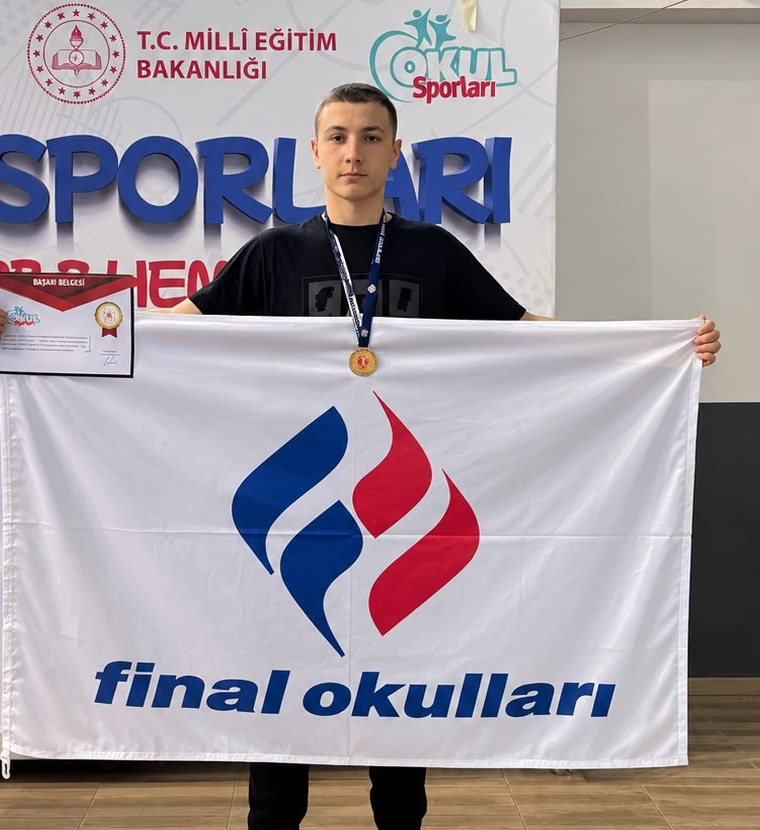
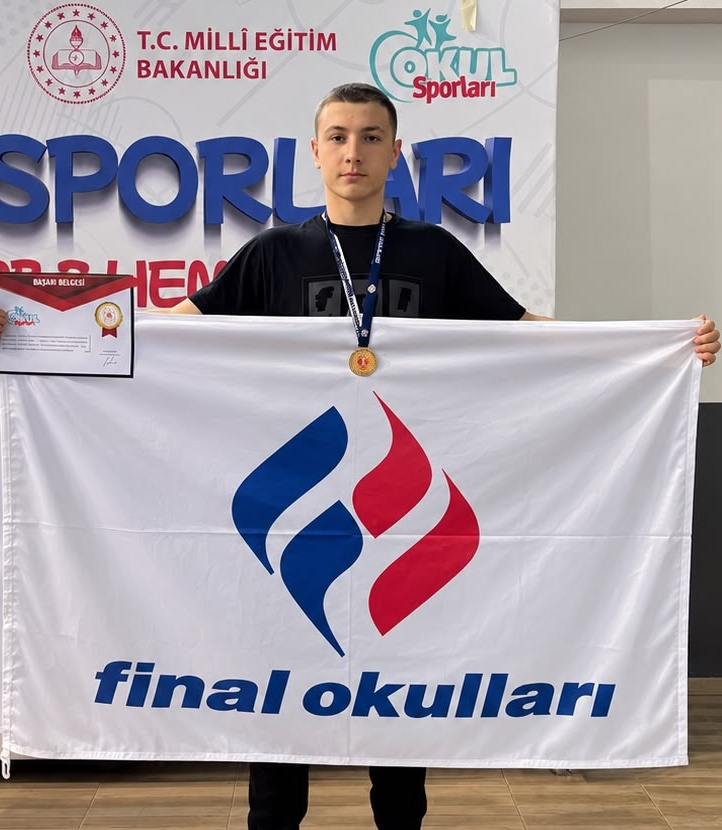
Bora yüzme post C: çerçeve bayrağın sağ kenarında bitiyor (daraltıldı)

diff --git a/marka/yakacik-final/bora-yuzme-basari-2026/kaynak/C-lacivert-cerceve.html b/marka/yakacik-final/bora-yuzme-basari-2026/kaynak/C-lacivert-cerceve.html
@@ -13,15 +13,15 @@ body{background:radial-gradient(ellipse 820px 700px at 50% 40%,#22398F 0%,#16236
 .ust .b{font-size:88px;margin-top:16px;white-space:nowrap;color:#F2C14E;text-shadow:0 6px 24px rgba(0,0,0,.35)}
 .ust .s{font-family:'Archivo';font-weight:800;font-style:italic;font-size:32px;margin-top:12px;letter-spacing:.01em}
 .cerceve{left:50%;transform:translateX(-50%);top:292px;background:#fff;padding:14px;box-shadow:0 22px 50px rgba(0,0,0,.45)}
-.cerceve img{display:block;width:560px;height:612px;object-fit:cover}
-.plaka{left:50%;transform:translateX(-50%);top:888px;padding:16px 44px 15px;text-align:center;white-space:nowrap;
+.cerceve img{display:block;width:540px;height:621px;object-fit:cover}
+.plaka{left:50%;transform:translateX(-50%);top:898px;padding:16px 44px 15px;text-align:center;white-space:nowrap;
   background:linear-gradient(180deg,#FBE3A0 0%,#E9B94A 45%,#C8902A 100%);border-radius:10px;
   box-shadow:0 14px 34px rgba(0,0,0,.45),inset 0 2px 0 rgba(255,255,255,.6)}
 .plaka .ad{font-size:40px;color:#131C51;font-stretch:100%}
 .plaka .alt{font-size:20px;font-weight:700;color:#131C51;margin-top:7px}
-.etk{top:1024px;left:70px;right:70px;text-align:center;color:#fff;font-size:22px;font-weight:600}
+.etk{top:1034px;left:70px;right:70px;text-align:center;color:#fff;font-size:22px;font-weight:600}
 .etk b{color:#F2C14E;font-weight:800}
-.kartlar{top:1070px;left:70px;right:70px;display:flex;gap:14px}
+.kartlar{top:1080px;left:70px;right:70px;display:flex;gap:14px}
 .kart{flex:1;display:flex;align-items:center;gap:12px;padding:12px 14px;border-radius:12px}
 .kart.koyu{background:rgba(255,255,255,.07);border:1.5px solid rgba(242,193,78,.75)}
 .kart.koyu .brans{color:#fff} .kart.koyu .derece{color:#F2C14E}
@@ -31,7 +31,7 @@ body{background:radial-gradient(ellipse 820px 700px at 50% 40%,#22398F 0%,#16236
 .rozet.lacivert{background:#131C51;color:#fff;box-shadow:0 0 0 3px #F2C14E}
 .brans{font-family:'Archivo';font-weight:800;font-size:19px;white-space:nowrap}
 .derece{font-weight:800;font-size:21px;margin-top:2px}
-.logo{left:50%;transform:translateX(-50%);top:1184px;display:flex;flex-direction:column;align-items:center;gap:7px}
+.logo{left:50%;transform:translateX(-50%);top:1190px;display:flex;flex-direction:column;align-items:center;gap:7px}
 .logo .i{height:60px} .logo .y{height:34px;filter:brightness(0) invert(1)}
 </style></head><body>
 <div class="abs isin"></div>

diff --git a/marka/yakacik-final/bora-yuzme-basari-2026/kaynak/uret.py b/marka/yakacik-final/bora-yuzme-basari-2026/kaynak/uret.py
@@ -122,7 +122,7 @@ body{{background:#fff}}
 
 # ---------------- C: lacivert zemin + beyaz çerçeveli orijinal fotoğraf (dekupesiz) ----------------
 from PIL import Image as _I
-_I.open(K / "bora-orijinal.jpg").crop((205, 360, 965, 1190)).save(K / "bora-kirp.jpg", quality=95)
+_I.open(K / "bora-orijinal.jpg").crop((205, 360, 927, 1190)).save(K / "bora-kirp.jpg", quality=95)
 C = f"""<!doctype html><html><head><meta charset="utf-8">{FONTS}<style>{BASE}
 body{{background:radial-gradient(ellipse 820px 700px at 50% 40%,#22398F 0%,#16236B 50%,#0D1449 100%)}}
 .isin{{inset:0;background:repeating-linear-gradient(115deg,rgba(255,255,255,.03) 0 2px,transparent 2px 70px)}}
@@ -132,15 +132,15 @@ body{{background:radial-gradient(ellipse 820px 700px at 50% 40%,#22398F 0%,#1623
 .ust .b{{font-size:88px;margin-top:16px;white-space:nowrap;color:#F2C14E;text-shadow:0 6px 24px rgba(0,0,0,.35)}}
 .ust .s{{font-family:'Archivo';font-weight:800;font-style:italic;font-size:32px;margin-top:12px;letter-spacing:.01em}}
 .cerceve{{left:50%;transform:translateX(-50%);top:292px;background:#fff;padding:14px;box-shadow:0 22px 50px rgba(0,0,0,.45)}}
-.cerceve img{{display:block;width:560px;height:612px;object-fit:cover}}
-.plaka{{left:50%;transform:translateX(-50%);top:888px;padding:16px 44px 15px;text-align:center;white-space:nowrap;
+.cerceve img{{display:block;width:540px;height:621px;object-fit:cover}}
+.plaka{{left:50%;transform:translateX(-50%);top:898px;padding:16px 44px 15px;text-align:center;white-space:nowrap;
   background:linear-gradient(180deg,#FBE3A0 0%,#E9B94A 45%,#C8902A 100%);border-radius:10px;
   box-shadow:0 14px 34px rgba(0,0,0,.45),inset 0 2px 0 rgba(255,255,255,.6)}}
 .plaka .ad{{font-size:40px;color:#131C51;font-stretch:100%}}
 .plaka .alt{{font-size:20px;font-weight:700;color:#131C51;margin-top:7px}}
-.etk{{top:1024px;left:70px;right:70px;text-align:center;color:#fff;font-size:22px;font-weight:600}}
+.etk{{top:1034px;left:70px;right:70px;text-align:center;color:#fff;font-size:22px;font-weight:600}}
 .etk b{{color:#F2C14E;font-weight:800}}
-.kartlar{{top:1070px;left:70px;right:70px;display:flex;gap:14px}}
+.kartlar{{top:1080px;left:70px;right:70px;display:flex;gap:14px}}
 .kart{{flex:1;display:flex;align-items:center;gap:12px;padding:12px 14px;border-radius:12px}}
 .kart.koyu{{background:rgba(255,255,255,.07);border:1.5px solid rgba(242,193,78,.75)}}
 .kart.koyu .brans{{color:#fff}} .kart.koyu .derece{{color:#F2C14E}}
@@ -150,7 +150,7 @@ body{{background:radial-gradient(ellipse 820px 700px at 50% 40%,#22398F 0%,#1623
 .rozet.lacivert{{background:#131C51;color:#fff;box-shadow:0 0 0 3px #F2C14E}}
 .brans{{font-family:'Archivo';font-weight:800;font-size:19px;white-space:nowrap}}
 .derece{{font-weight:800;font-size:21px;margin-top:2px}}
-.logo{{left:50%;transform:translateX(-50%);top:1184px;display:flex;flex-direction:column;align-items:center;gap:7px}}
+.logo{{left:50%;transform:translateX(-50%);top:1190px;display:flex;flex-direction:column;align-items:center;gap:7px}}
 .logo .i{{height:60px}} .logo .y{{height:34px;filter:brightness(0) invert(1)}}
 </style></head><body>
 <div class="abs isin"></div>
